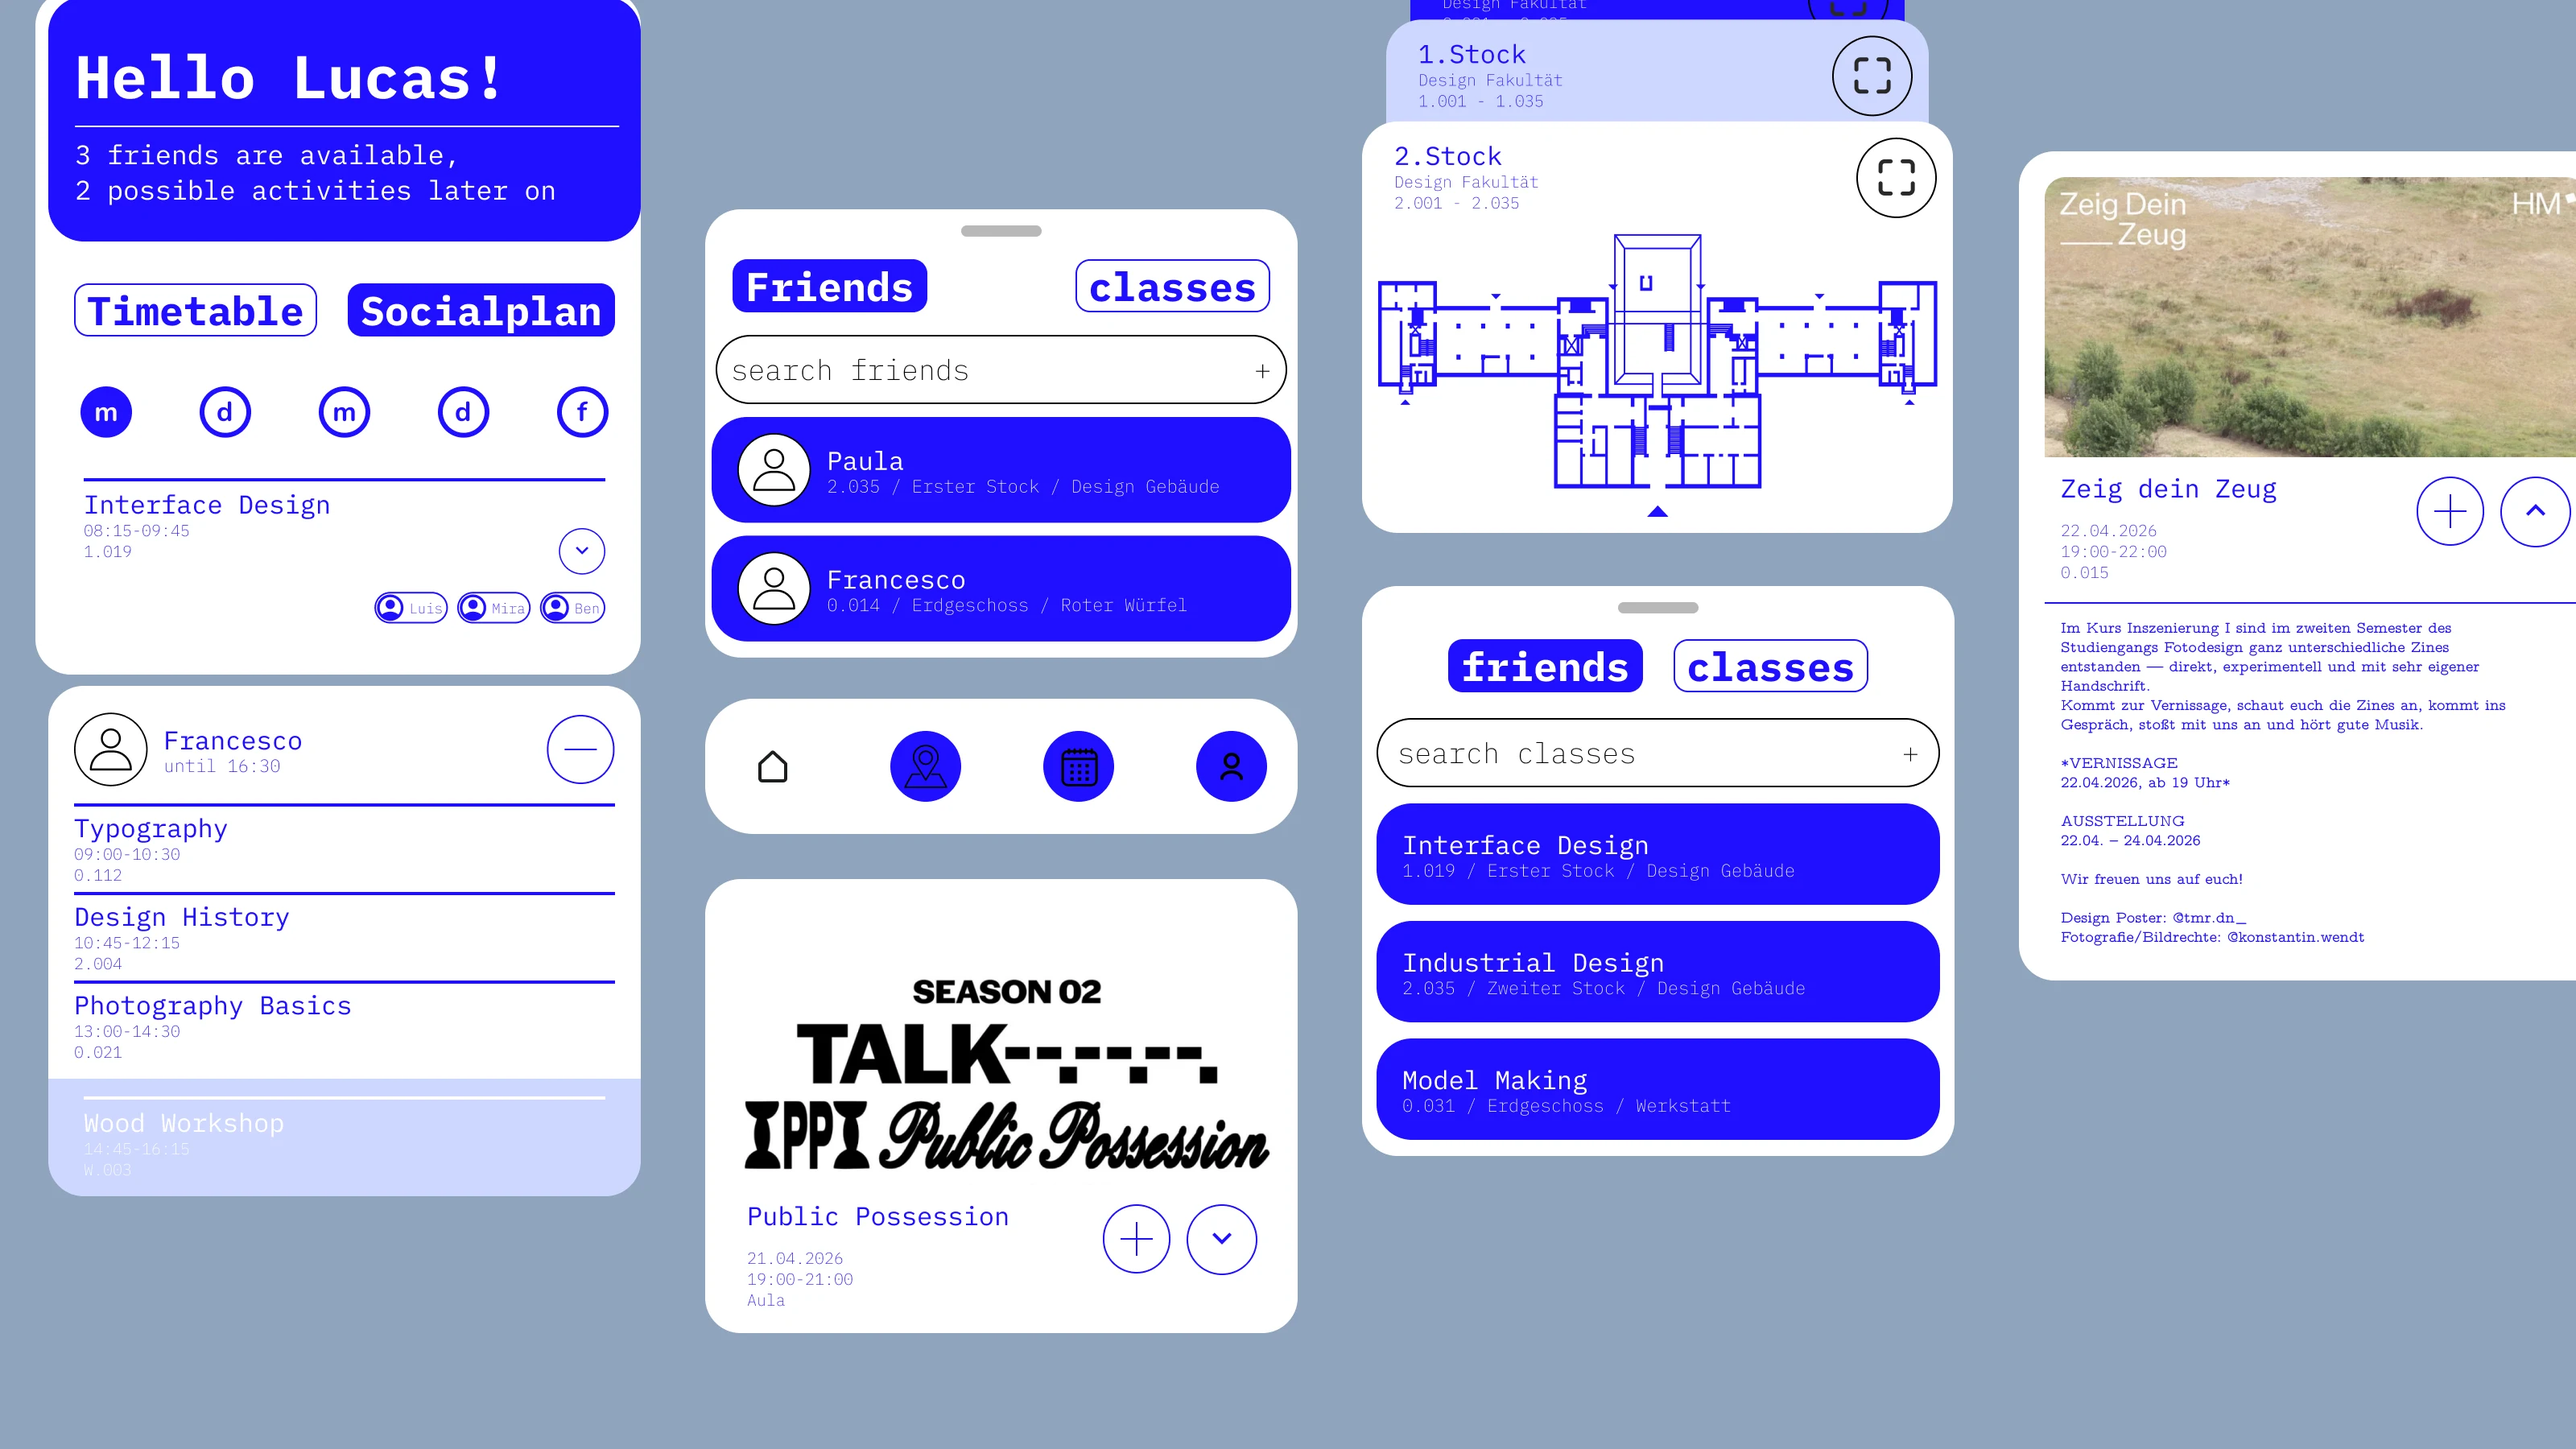
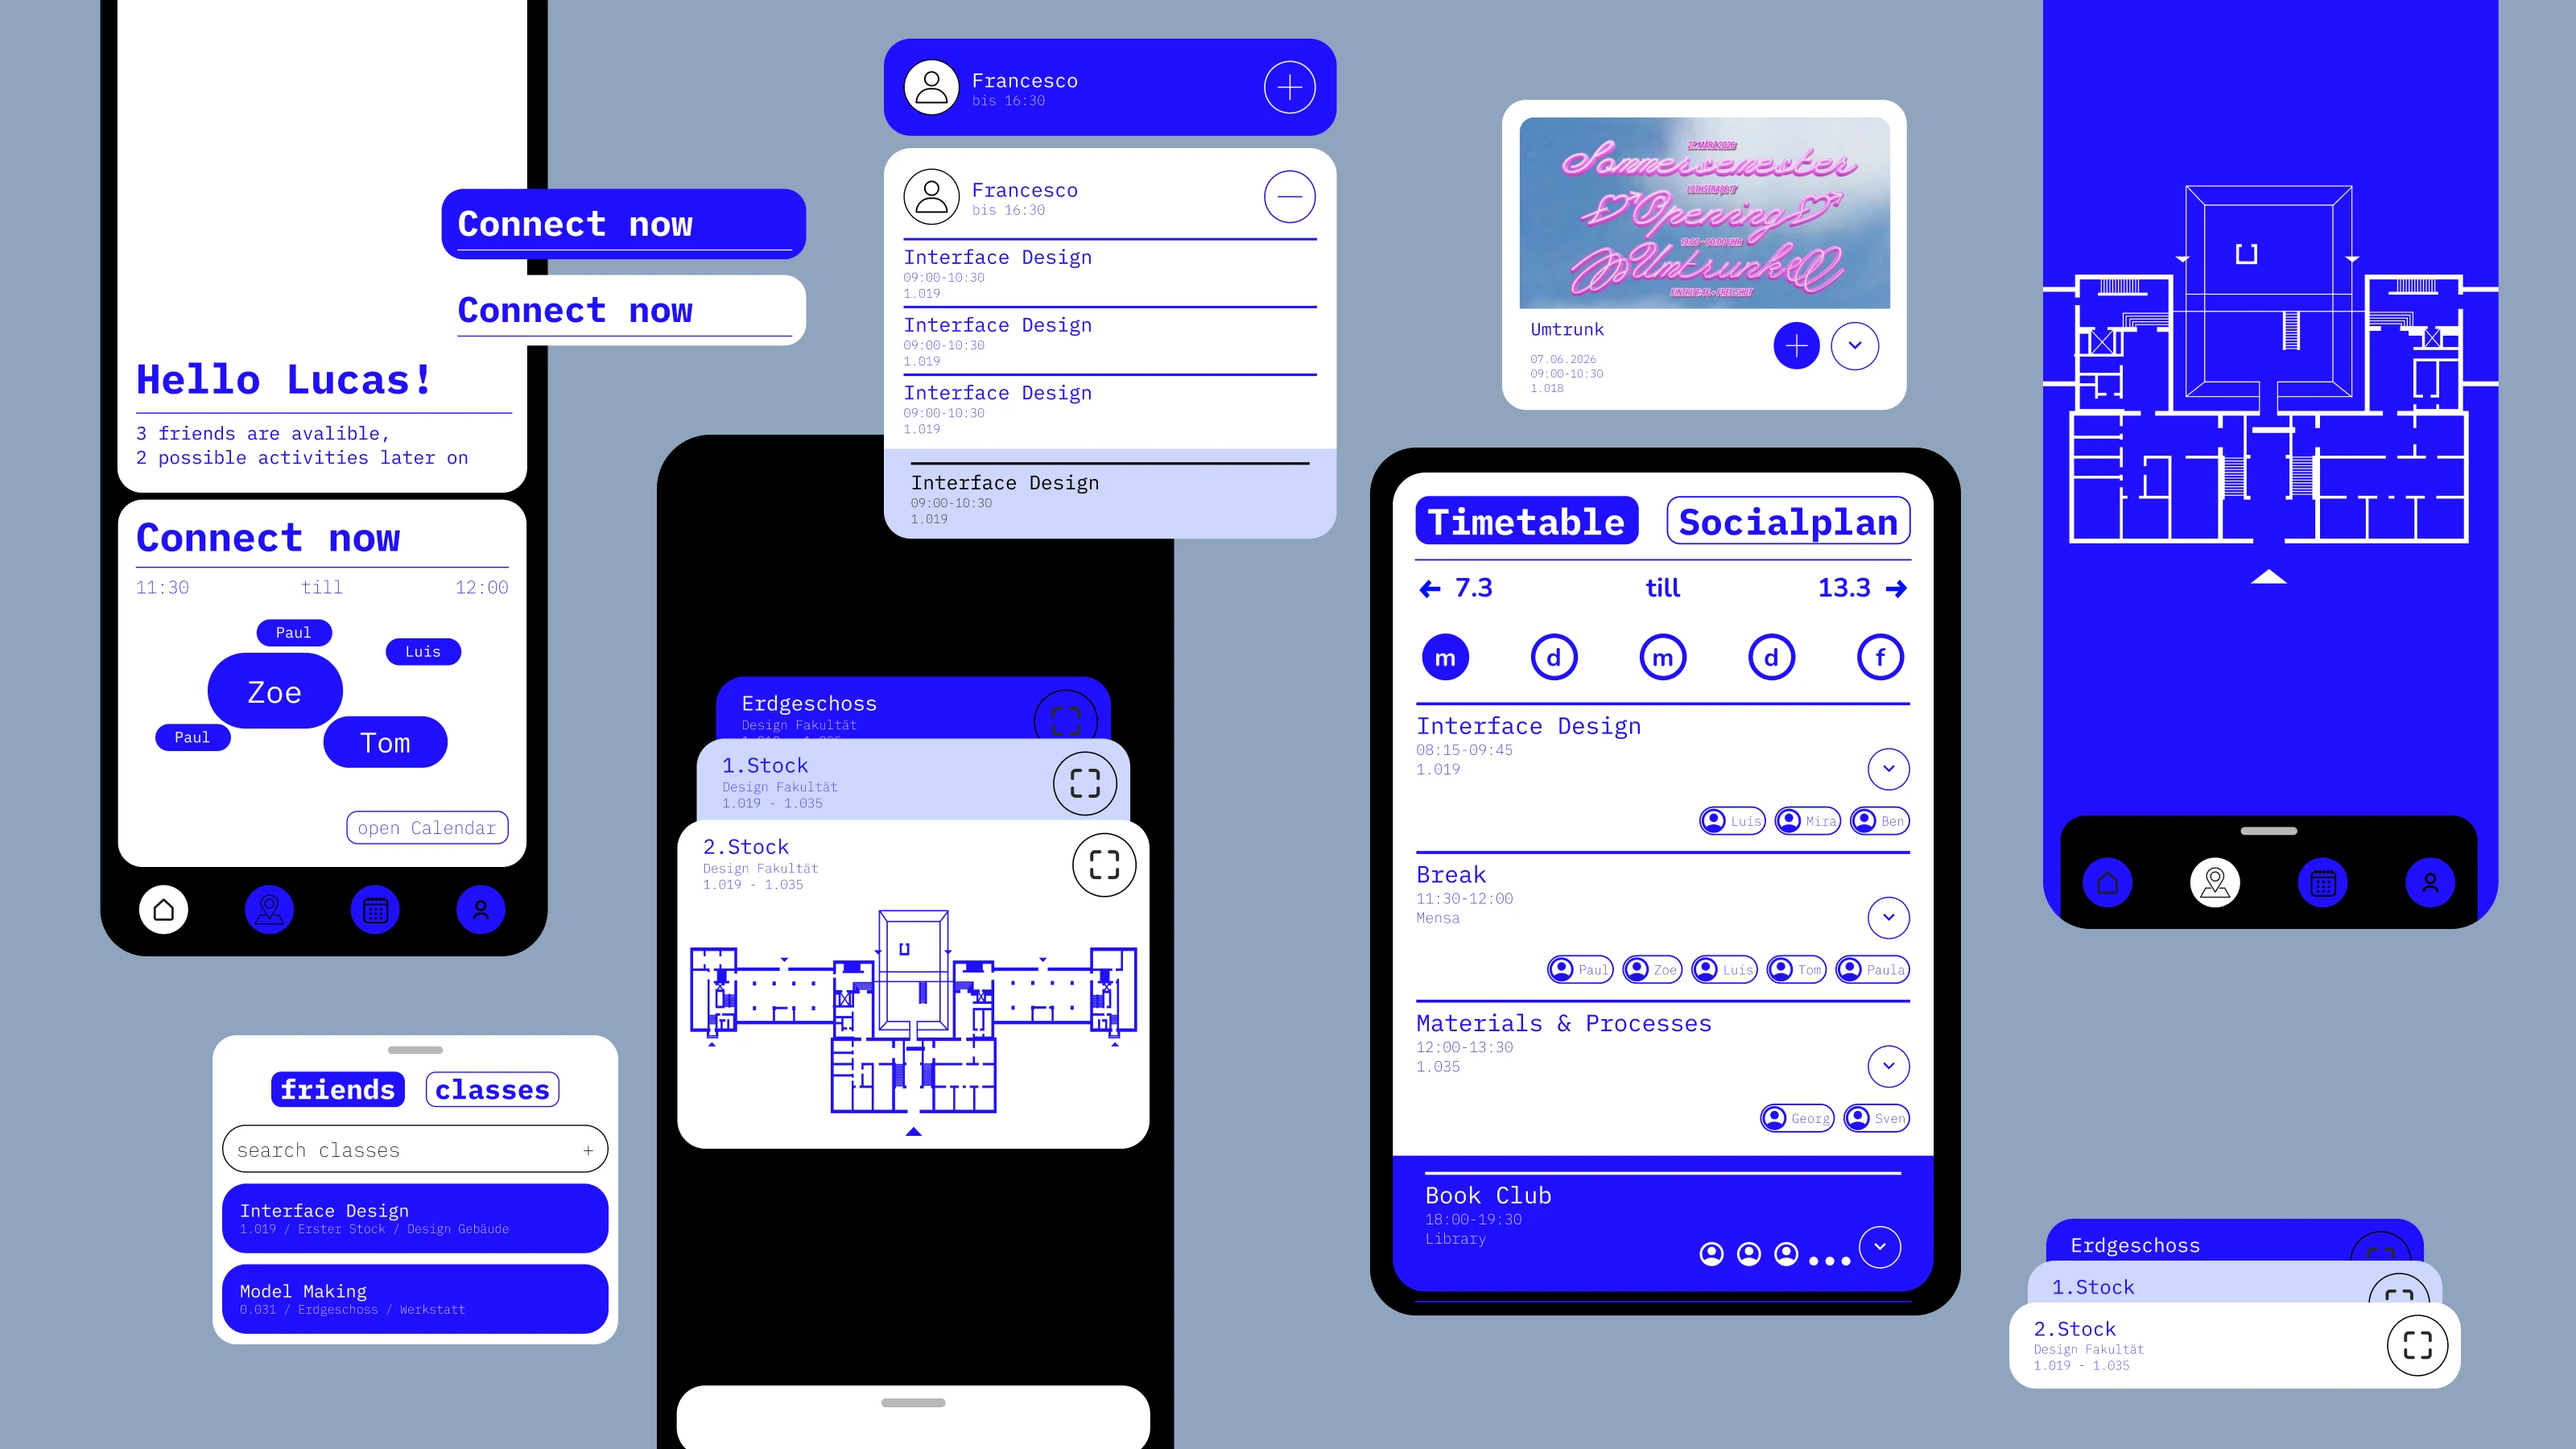
Update v1-collage image and adjust hero section styles for consistency

diff --git a/public/unify2d1.html b/public/unify2d1.html
@@ -1705,14 +1705,20 @@
     .cs-section { border-bottom: none; }
     .cs-section + .cs-section { padding-top: clamp(16px, 3vw, 32px); }
 
-    /* Hero one-liner: the spine of the whole page, in one sentence. */
+    /* Hero one-liner: the spine of the whole page, in one sentence. Set exactly
+       like the other project pages' At-a-Glance lead (.glance-lead on
+       virtual_cooking2d.html, Lucas 2026-10-06): light grey, full column width,
+       and primary ink on phones. */
     .cs-lead {
       font-family: 'Roboto Flex', sans-serif; font-size-adjust: none;
-      font-size: clamp(20px, 2.4vw, 30px);
+      font-size: clamp(18px, 2.2vw, 24px);
       font-weight: 300;
-      line-height: 1.35;
-      color: var(--text-primary);
-      max-width: 36ch;
+      line-height: 1.4;
+      letter-spacing: -0.01em;
+      color: var(--text-secondary);
+    }
+    @media (max-width: 640px) {
+      .cs-lead { color: var(--text-primary); }
     }
 
     /* Page map: a fixed sidebar, after Jessica Im's reference — off the hero,
@@ -1919,8 +1925,8 @@
     /* a bare Figma frame (no phone): 28% of the canvas wide, its own shape;
        the exports' square corners were cut to the frames' own rounding
        (alpha mask, r 89 of 1408/1472 at 4x) when they were saved */
-    .v1-card { position: absolute; width: 28%; height: auto; display: block;
-      filter: drop-shadow(0 1.2cqw 2.4cqw rgba(0, 0, 0, .18)); }
+    .v1-card { position: absolute; width: 28%; height: auto; display: block; }
+    /* no drop shadow under the frames: they sit flat on the solid canvas (Lucas, 2026-10-06) */
 
     /* UNUSED as of 2026-10-06 (replaced by .v1-scene), see CLAUDE.md */
     .v1-collage {
@@ -3019,19 +3025,19 @@
            them. In the Figma file the rows became Interface Design / Break /
            Materials & Processes / Book Club, with fewer friends on most. Fixed-aspect canvas, cqw units,
            scales like an image. -->
-      <div class="v1-scene v1-scene--idea" role="img" aria-label="The v1 design: the Connect now card, showing who is free from 11:30 till 12:00, and its open Timetable button ringed and clicked, and an arrow from it to the day's timetable, where the Break from 11:30 to 12:00 lists the same friends, and the evening's Book Club.">
+      <div class="v1-scene v1-scene--idea" role="img" aria-label="The v1 design: the Connect now card, showing who is free from 11:30 till 12:00, and its open Timetable button ringed, and an arrow from it to the day's timetable, where the Break from 11:30 to 12:00 lists the same friends, and the evening's Book Club.">
         <div class="v1-canvas">
           <img class="v1-card" src="/images/unify/v1/fig-connect.webp?v=3" alt="" style="left: 13%; top: 13.1cqw; width: 32%;" />
           <img class="v1-card" src="/images/unify/v1/fig-timetable.webp?v=3" alt="" style="left: 55%; top: 6.9cqw;" />
-          <!-- the hand-off: a ring round "open Timetable", a cursor clicking it,
-               and an arrow curving from the ring into the timetable it opens.
+          <!-- the hand-off: a ring round "open Timetable" and an arrow curving
+               from the ring into the timetable it opens (the cursor that clicked
+               it was removed 2026-10-06, Lucas).
                One SVG over the whole canvas, in canvas units (viewBox 100 x
                56.25 = the 16:9 canvas), so it scales with the picture. -->
           <svg class="v1-handoff" viewBox="0 0 100 56.25" aria-hidden="true">
             <rect x="28.85" y="38.06" width="15.28" height="3.9" rx="1.95" fill="none" stroke="#FF88C8" stroke-width=".42"/>
             <path d="M44.6 40 C 50.2 40, 49.6 28, 54.1 28" fill="none" stroke="#FF88C8" stroke-width=".42" stroke-linecap="round"/>
             <path d="M52.9 26.9 L54.2 28 L52.9 29.1" fill="none" stroke="#FF88C8" stroke-width=".42" stroke-linecap="round" stroke-linejoin="round"/>
-            <path transform="translate(42.6 40.5) scale(.62)" d="M0 0 L0 4.4 L1.1 3.4 L1.9 5.2 L2.6 4.9 L1.8 3.2 L3.3 3.2 Z" fill="#fff" stroke="#1A1A1A" stroke-width=".28" stroke-linejoin="round"/>
           </svg>
         </div>
       </div>
@@ -3069,7 +3075,7 @@
              components and panels (file "unify", page "design old", frame
              "v1 collage (website)" 977:2543, 1600x900 = 16:9), texts corrected
              there, exported at 2x. Re-export that frame after any change. -->
-        <div class="v1-canvas"><img class="v1-collage-img" src="/images/unify/v1/v1-collage.webp?v=3" alt="" /></div>
+        <div class="v1-canvas"><img class="v1-collage-img" src="/images/unify/v1/v1-collage.webp?v=4" alt="" /></div>
       </div>
 
       <h3 class="cs-sub">It felt like a tool</h3>

diff --git a/CLAUDE.md b/CLAUDE.md
@@ -460,7 +460,11 @@ move — Lucas: proof belongs later, not up front). `.fact-bar` is unchanged CSS
 `.pilot-stats` wraps it with the same kicker/heading pair as the Problem statbar (`.stat-kicker` +
 `.stat-head`), and sits in "The idea" section right after the "who's free now" showcase and before
 "How the overlap is found" — the numbers next to the feature they are evidence for, not before it.
-The hero (`#top`) now carries only the lead line. **The three numbers themselves changed too**,
+The hero (`#top`) now carries only the lead line. **That line (`.cs-lead`) is set like every other
+project page's At-a-Glance lead** (2026-10-06, Lucas, off virtual_cooking2d's `.glance-lead`):
+Roboto Flex 300, `clamp(18px, 2.2vw, 24px)` / 1.4, −0.01em, `--text-secondary`, full column width
+(the old 36ch cap and 30px size are gone), primary ink below 640px. Measured identical to the
+Virtual Cooking lead at 1280, 1920 and 390 touch. There is no "At a Glance" heading above it. **The three numbers themselves changed too**,
 since this is no longer a before/after (Problem) vs after (Results) split but one PILOT-only
 snapshot: 2.2× more meetups/week, 68% less time spent arranging one, 20 students across 5 friend
 groups. Chain them if the real pilot numbers ever land: 1.4 → 3.1 meetups already matches
@@ -581,14 +585,15 @@ Everything below about `.wf-frame` and `.v1-collage` is history.
 `fig-connect.webp` (the Connect now card alone, node 971:2102) and `fig-timetable.webp` (frame
 971:2165, Lucas's copy of the edited 302:4445) from the Figma file `unify` (fZpKZpih18tEiVkeYPoCWs), exported at 4x, no phone around them
 (`.v1-card`: 28% of the canvas wide, the Connect card 32%; the exports come with square light-grey/black
-corners, so each was given an alpha mask at its own corner radius — 89px at 4x — when saved; drop shadow). **The timetable frame was edited IN FIGMA first** (several rounds with Lucas): rows are now Interface
+corners, so each was given an alpha mask at its own corner radius — 89px at 4x — when saved; no shadow). **The timetable frame was edited IN FIGMA first** (several rounds with Lucas): rows are now Interface
 Design 08:15–09:45 1.019 (3 friends) / **Break 11:30–12:00 Mensa** (the Connect now window, 5 friends:
 Paul, Zoe, Luis, Tom, Paula) / Materials & Processes 12:00–13:30 1.035 (2) / **Book Club 18:00–19:30
 Library** (the blue row, a free-time uni activity). Prototyping Lab was removed. Rows 1–2 are clones of
 the original "open blue" row 302:4763 (swapping the variant lost the chips' icons); unused friend
 chips are hidden, not deleted. Frame is 368×557. Re-export the same two nodes if the Figma changes. The Connect card's button reads "open Timetable" (changed in Figma, was "open Calendar"), and the hand-off
 is drawn over the canvas as one SVG in canvas units (`.v1-handoff`, viewBox 100×56.25): a pink ring round
-the button, a cursor clicking it, and an arrow curving from the ring into the timetable.
+the button and an arrow curving from the ring into the timetable. **No cursor, no drop shadow under
+the two frames** (removed 2026-10-06, Lucas): they sit flat on the solid `#90A4BD` canvas (sampled: one colour).
 **The Pivot section is ONE image composed in Figma** (`v1-collage.webp`, 3200×1800, from frame
 "v1 collage (website)" 977:2543 on "design old" — 1600×900, filled with the canvas blue). It is
 assembled from the old design's own components and panels (Components Old page): Hello Lucas, the
